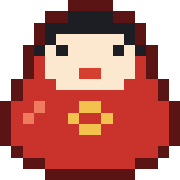
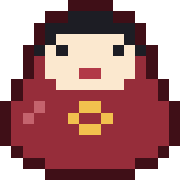
Tone the red down to burgundy, doll included
Claude-Session: https://claude.ai/code/session_01JXqTCx3Drj5DZFr9Us3QrX

diff --git a/index.html b/index.html
@@ -28,22 +28,22 @@ try { var t = localStorage.getItem("theme"); if (t) document.documentElement.dat
   --muted: #5c5c5c;
   --faint: #8f8f8f;
   --rule: #e6e6e6;
-  --accent: #b8322b;
-  --accent-ink: #9a2a24;
-  --soft: #fbe9e6;
-  --mark: #f7d4ce;
+  --accent: #7d2232;
+  --accent-ink: #651a28;
+  --soft: #f6e8ea;
+  --mark: #edcdd2;
   --font: "Source Serif 4", Georgia, serif;
   --ui: "Familjen Grotesk", "Helvetica Neue", Arial, sans-serif;
 }
 @media (prefers-color-scheme: dark) {
   :root:not([data-theme="light"]) {
     --bg: #141414; --ink: #ececec; --muted: #a3a3a3; --faint: #737373; --rule: #2a2a2a;
-    --accent: #f08a7e; --accent-ink: #f5a398; --soft: #2e1c1a; --mark: #5a2722; color-scheme: dark;
+    --accent: #d98a96; --accent-ink: #e6a3ad; --soft: #2a1a1e; --mark: #4d2430; color-scheme: dark;
   }
 }
 :root[data-theme="dark"] {
   --bg: #141414; --ink: #ececec; --muted: #a3a3a3; --faint: #737373; --rule: #2a2a2a;
-  --accent: #f08a7e; --accent-ink: #f5a398; --soft: #2e1c1a; --mark: #5a2722; color-scheme: dark;
+  --accent: #d98a96; --accent-ink: #e6a3ad; --soft: #2a1a1e; --mark: #4d2430; color-scheme: dark;
 }
 * { box-sizing: border-box; }
 html { -webkit-text-size-adjust: 100%; }
